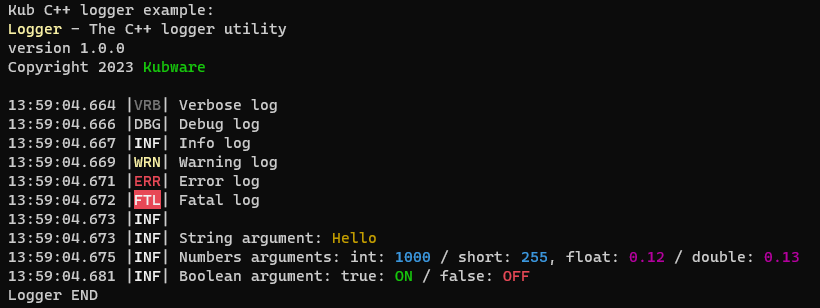
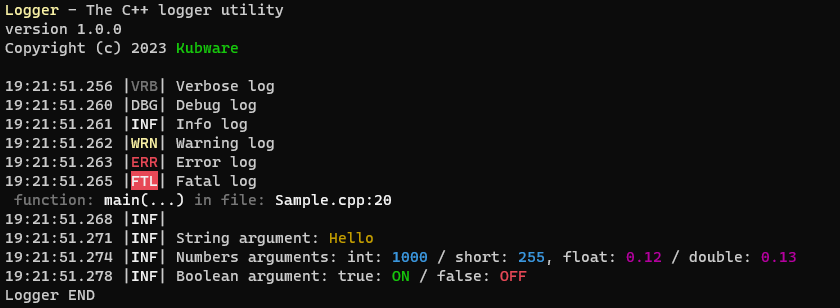
LOG_FATAL extension

Changed region(s): [[0.0, 0.263, 0.9756, 0.9935], [0.0, 0.0, 0.3659, 0.2338]]

diff --git a/src/Logger.h b/src/Logger.h
@@ -33,7 +33,6 @@
 #define COLOR_LOG_INFO			SetConsoleTextAttribute(GetStdHandle(STD_OUTPUT_HANDLE), 15)
 #define COLOR_LOG_DEBUG		    SetConsoleTextAttribute(GetStdHandle(STD_OUTPUT_HANDLE), 7)
 #define COLOR_LOG_VERBOSE		SetConsoleTextAttribute(GetStdHandle(STD_OUTPUT_HANDLE), 8)
-#define COLOR_LOG_NUMBER		SetConsoleTextAttribute(GetStdHandle(STD_OUTPUT_HANDLE), 13)
 
 #define COLOR_LOG_STRING        SetConsoleTextAttribute(GetStdHandle(STD_OUTPUT_HANDLE), 6)  // gold
 #define COLOR_LOG_INTEGER       SetConsoleTextAttribute(GetStdHandle(STD_OUTPUT_HANDLE), 3)  // light blue
@@ -60,14 +59,14 @@
 #endif
 
 #ifdef _MSC_VER
-#   define HEXLOGGER_GET_FUNC()      __FUNCTION__
-#   define HEXLOGGER_GET_FILENAME() (strrchr(__FILE__, '\\') ? strrchr(__FILE__, '\\') + 1 : __FILE__)
+#   define KUB_LOGGER_GET_FUNC()      __FUNCTION__
+#   define KUB_LOGGER_GET_FILENAME() (strrchr(__FILE__, '\\') ? strrchr(__FILE__, '\\') + 1 : __FILE__)
 #elif defined(__BORLANDC__)
-#   define HEXLOGGER_GET_FUNC()      __FUNC__
-#   define HEXLOGGER_GET_FILENAME() (strrchr(__FILE__, '\\') ? strrchr(__FILE__, '\\') + 1 : __FILE__)
+#   define KUB_LOGGER_GET_FUNC()      __FUNC__
+#   define KUB_LOGGER_GET_FILENAME() (strrchr(__FILE__, '\\') ? strrchr(__FILE__, '\\') + 1 : __FILE__)
 #else
-#   define HEXLOGGER_GET_FUNC()      __PRETTY_FUNCTION__
-#   define HEXLOGGER_GET_FILENAME() (strrchr(__FILE__, '\\') ? strrchr(__FILE__, '\\') + 1 : __FILE__)
+#   define KUB_LOGGER_GET_FUNC()      __PRETTY_FUNCTION__
+#   define KUB_LOGGER_GET_FILENAME() (strrchr(__FILE__, '\\') ? strrchr(__FILE__, '\\') + 1 : __FILE__)
 #endif
 
 
@@ -76,7 +75,7 @@
 #define LOG_INFO(message,...)			Logger::getLoggerInstance().logMessage(kub::Logger::Severity::info, message, __VA_ARGS__) 
 #define LOG_WARNING(message,...)        Logger::getLoggerInstance().logMessage(kub::Logger::Severity::warning, message, __VA_ARGS__)
 #define LOG_ERROR(message,...)			Logger::getLoggerInstance().logMessage(kub::Logger::Severity::error, message, __VA_ARGS__)
-#define LOG_FATAL(message,...)			Logger::getLoggerInstance().logMessage(kub::Logger::Severity::fatal, message, __VA_ARGS__)
+#define LOG_FATAL(message,...)			Logger::getLoggerInstance().logFatal(message, string(KUB_LOGGER_GET_FUNC()), string(KUB_LOGGER_GET_FILENAME()), to_string(__LINE__) )
 
 #define LOGGER_SETTINGS					Logger::getLoggerInstance().Settings
 #define LOGGER_FILESINK(enabled,...)	Logger::getLoggerInstance().setFileSink(enabled, __VA_ARGS__)
@@ -199,6 +198,15 @@ namespace kub {
 		}
 
 		/// <summary>
+		/// Log fatal error with error message and location
+		/// </summary>
+		/// <param name="format">Error message without arguments.</param>
+		/// <param name="function">Function, in which fatal error occured.</param>
+		/// <param name="source">Source file, in which fatal error occured.</param>
+		/// <param name="line">Line at which fatal error occured.</param>
+		void logFatal(const char* format, string function, string source, string line);
+
+		/// <summary>
 		/// Set logging to file.
 		/// </summary>
 		/// <param name="enabled">If true, logs will be sinked to file.</param>
@@ -279,7 +287,21 @@ namespace kub {
 						COLOR_LOG_DEFAULT;
 					}
 
-					ss << value;
+					if (mFilesink) {
+						if (std::is_same<T, bool>::value) {
+							if ((bool)value == true) {
+								ss << Settings.trueValue;
+							}
+							else {
+								ss << Settings.falseValue;
+							}
+						}
+						else {
+							ss << value;
+
+						}
+					}
+
 					printArgument(ss, format + len, Fargs...); // recursive call
 					return;
 				}
@@ -301,7 +323,7 @@ namespace kub {
 		/// </summary>
 		/// <param name="severity"></param>
 		/// <returns></returns>
-		static string getSeverentityCode(Severity& severity);
+		static string getSeverentityCode(Severity severity);
 
 	private:
 
@@ -310,7 +332,7 @@ namespace kub {
 		/// </summary>
 		/// <param name="severity">Log message severenity.</param>
 		/// <returns></returns>
-		string logStart(Severity& severity);
+		string logStart(Severity severity);
 
 		/// <summary>
 		/// Hidden constructor.

diff --git a/src/Logger.cpp b/src/Logger.cpp
@@ -29,6 +29,43 @@ kub::Logger::~Logger() {
 	cout << "Logger END" << endl;
 }
 
+void kub::Logger::logFatal(const char* format, string function, string source, string line)
+{
+	// No sink - ignore log
+	if (Settings.consoleSink == false && mFilesink == false) return;
+
+	// Stream for file log
+	std::stringstream ss;
+
+	// Get time and severenity log start
+	ss << logStart(Severity::fatal);
+
+	// Print to console
+	if (Settings.consoleSink) {
+		cout << format << endl;
+		COLOR_LOG_VERBOSE;
+		cout << " function: ";
+		COLOR_LOG_INFO;
+		cout << function << "(...)";
+		COLOR_LOG_VERBOSE;
+		cout << " in file: ";
+		COLOR_LOG_INFO;
+		cout << source << ":" << line << endl;
+		COLOR_LOG_DEFAULT;
+	}
+
+	// Append to file
+	if (mFilesink) {
+		ss << format << endl;
+		ss << " function: " << function << "(...)" << " in file: " << source << ":" << line << endl;
+
+		ofstream logFile;
+		logFile.open(mFilePath, ios::out | ios::app);
+		logFile << ss.str();
+		logFile.close();
+	}
+}
+
 bool kub::Logger::setFileSink(bool enabled, string filepath)
 {
 	mFilePath = filepath;
@@ -71,7 +108,7 @@ string kub::Logger::getCurrentTime()
 	return ss.str();
 }
 
-string kub::Logger::getSeverentityCode(Severity& severity)
+string kub::Logger::getSeverentityCode(Severity severity)
 {
 	switch (severity)
 	{
@@ -85,7 +122,7 @@ string kub::Logger::getSeverentityCode(Severity& severity)
 	}
 }
 
-string kub::Logger::logStart(Severity& severity)
+string kub::Logger::logStart(Severity severity)
 {
 	string timePart = getCurrentTime();
 	string severenityPart = getSeverentityCode(severity);

diff --git a/README.md b/README.md
@@ -1,6 +1,6 @@
 # Kubware C++ Logger
 
-**WARNING - UNDER DEVELOPMENT!!! - do not use until it is stable version**
+**WARNING - UNDER DEVELOPMENT!!! - do not use until it is stable version!!!**
 
 **Kubware C++ Logger** is simple console or file logger with basic 6 levels of severenity:
 
@@ -11,9 +11,9 @@
  - **ERROR** - something is not working as expected, program execution is not successfull.
  - **FATAL** - there was critical error, program cannot continue.
 
-For logging, there are special **#defines** like **LOG_INFO("Info log");** for each level of severenity.
-
-
+For logging, there are special **#defines** like `LOG_INFO("Info log");`for each level of severenity.
+Except **FATAL** severenity, it is possible to add arguments to highlight specific values in logged message using **{0}** token, for example `LOG_INFO("Value: {0}", 100);`. 
+The `LOG_FATAL("message");` call will include function, source file and line location of log.
 
 ## Using and installing - manual copy
 
@@ -85,9 +85,15 @@ int main()
 
 ![demo](nuget/demo.png)
 
+Code `LOGGER_FILESINK(true,"log.txt");` will turn on logging into file *log.txt*:
+
+![logfile](nuget/logfile.png)
+
 ## Licence
 
-**KubLogger** is available under [MIT-licence](./LICENSE.md).
+**KubLogger** is available under [MIT-licence](./LICENSE.md). 
+
+This is a hobby project without any external supervision or code review.
 
 Copyright &copy; 2023 Kubware
 
